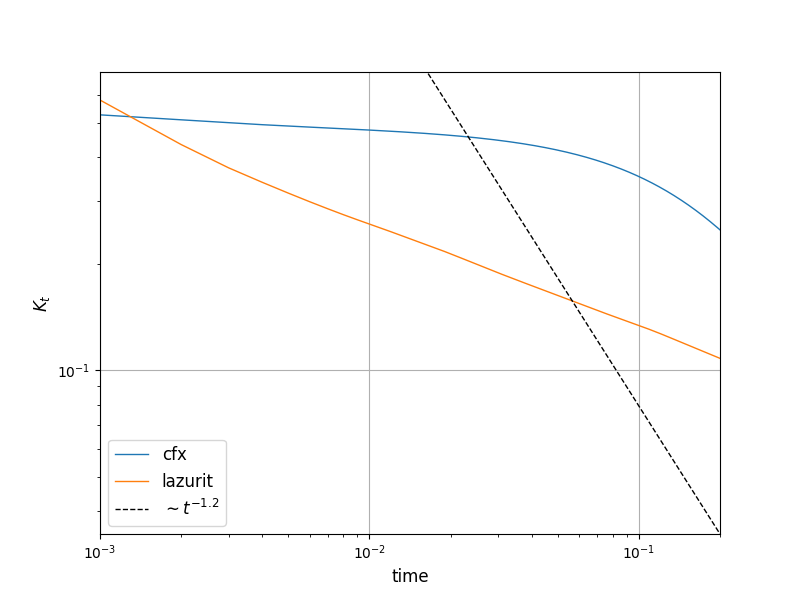
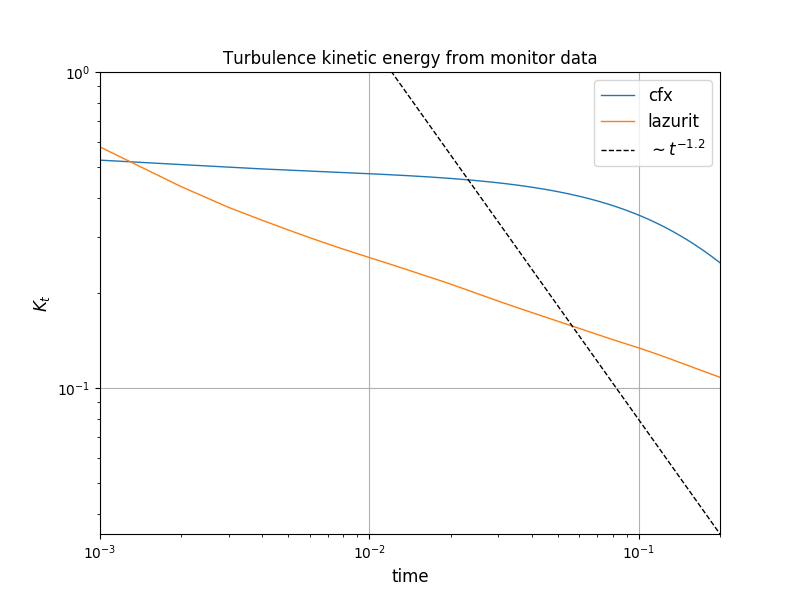
Add comparison of kinetic energy time dependencies, obtained from monitor data and spectrum data

diff --git a/diht_analysis/analyse_spectrum.py b/diht_analysis/analyse_spectrum.py
@@ -6,6 +6,9 @@ import numpy as np
 import pandas as pd
 import matplotlib.pyplot as plt
 import typing
+from diht_analysis.analyse_monitor_data import cfx_kinetic_energy as mon_cfx_energy_arr,\
+    lazurit_kinetic_energy as mon_lazurit_energy_arr, time_arr as mon_time_arr
+
 
 base_dir = os.path.dirname(os.path.dirname(__file__))
 
@@ -43,7 +46,25 @@ def plot_spectrum(i_cnt, j_cnt, k_cnt, frames: typing.List[pd.DataFrame], subplo
                                      config.grid_step, u_arr, v_arr, w_arr, 200)
         spectrum.compute_spectrum()
         plt.plot(spectrum.k_abs_arr, spectrum.energy_sum_arr, lw=0.5, label=r'$t = %s $' % round(sol_time, 3))
-    set_plot(title, legend=bool(sol_time_arr))
+    set_plot(title, legend=bool(list(sol_time_arr)))
+
+
+def get_kinetic_energy_arr(i_cnt, j_cnt, k_cnt, frames: typing.List[pd.DataFrame]):
+    kinetic_energy_arr = []
+    u_arr, v_arr, w_arr = read_velocity_file(os.path.join(base_dir, config.data_files_dir, 'velocity.VEL'))
+    spectrum = SpatialSpectrum3d(config.i_cnt, config.j_cnt, config.k_cnt,
+                                 config.grid_step, u_arr, v_arr, w_arr, 200)
+    spectrum.compute_spectrum()
+    kinetic_energy_arr.append(spectrum.get_turb_kinetic_energy())
+    for frame in frames:
+        u_arr = np.array(frame['U'])
+        v_arr = np.array(frame['V'])
+        w_arr = np.array(frame['W'])
+        spectrum = SpatialSpectrum3d(i_cnt, j_cnt, k_cnt,
+                                     config.grid_step, u_arr, v_arr, w_arr, 200)
+        spectrum.compute_spectrum()
+        kinetic_energy_arr.append(spectrum.get_turb_kinetic_energy())
+    return np.array(kinetic_energy_arr)
 
 
 def make_comparison_plot(cfx_frames: typing.List[pd.DataFrame], lazurit_frames: typing.List[pd.DataFrame],
@@ -58,7 +79,7 @@ def make_comparison_plot(cfx_frames: typing.List[pd.DataFrame], lazurit_frames: 
 def sort_frames(frames: typing.List[pd.DataFrame], sol_time_arr):
     fr = pd.DataFrame.from_dict({'frames': frames, 'sol_time': sol_time_arr})
     sort_fr = fr.sort_values(by='sol_time')
-    return list(sort_fr['frames']), list(sort_fr['sol_time'])
+    return list(sort_fr['frames']), np.array(list(sort_fr['sol_time']))
 
 if __name__ == '__main__':
     cfx_frames: typing.List[pd.DataFrame] = []
@@ -79,6 +100,46 @@ if __name__ == '__main__':
         lazurit_frames.append(frame)
 
     cfx_frames, cfx_sol_time_arr = sort_frames(cfx_frames, cfx_sol_time_arr)
-    lazurit_frames, lazurit_sol_time_arr =sort_frames(lazurit_frames, lazurit_sol_time_arr)
+    lazurit_frames, lazurit_sol_time_arr = sort_frames(lazurit_frames, lazurit_sol_time_arr)
 
     make_comparison_plot(cfx_frames, lazurit_frames, cfx_sol_time_arr)
+
+    cfx_energy_arr = get_kinetic_energy_arr(config.i_cnt, config.j_cnt, config.k_cnt, cfx_frames)
+    lazurit_energy_arr = get_kinetic_energy_arr(config.i_cnt + 1, config.j_cnt + 1, config.k_cnt + 1, lazurit_frames)
+
+    cfx_sol_time_arr = np.array([0] + list(cfx_sol_time_arr))
+    lazurit_sol_time_arr = np.array([0] + list(lazurit_sol_time_arr))
+    plt.figure(figsize=(8, 6))
+    plt.plot(cfx_sol_time_arr, cfx_energy_arr, lw=1, label='cfx')
+    plt.plot(lazurit_sol_time_arr, lazurit_energy_arr, lw=1, label='lazurit')
+    plt.plot(cfx_sol_time_arr, 0.005 / cfx_sol_time_arr ** 1.2, lw=1, color='black', linestyle='--',
+             label=r'$\sim t^{-1.2}$')
+    plt.legend(fontsize=12)
+    plt.title('Turbulence kinetic energy from spectrum')
+    plt.xscale('log')
+    plt.yscale('log')
+    plt.xlabel('time', fontsize=12)
+    plt.ylabel(r'$K_t$', fontsize=12)
+    plt.grid()
+    plt.ylim(0, 1)
+    plt.xlim(cfx_sol_time_arr[0], cfx_sol_time_arr[len(cfx_sol_time_arr) - 1])
+    plt.savefig(os.path.join(base_dir, config.spectrum_plots_dir, 'kinetic_energy.png'))
+
+    plt.figure(figsize=(8, 6))
+    plt.plot(cfx_sol_time_arr, cfx_energy_arr, lw=1, label='cfx, from spectrum', linestyle='-', color='red')
+    plt.plot(lazurit_sol_time_arr, lazurit_energy_arr, lw=1, label='lazurit, from spectrum', linestyle='-',
+             color='blue')
+    plt.plot(mon_time_arr, mon_cfx_energy_arr, lw=1, label='cfx, from monitor', linestyle=':', color='red')
+    plt.plot(mon_time_arr, mon_lazurit_energy_arr, lw=1, label='lazurit, from monitor', linestyle=':', color='blue')
+    plt.plot(cfx_sol_time_arr, 0.005 / cfx_sol_time_arr ** 1.2, lw=1, color='black', linestyle='--',
+             label=r'$\sim t^{-1.2}$')
+    plt.legend(fontsize=12)
+    # plt.xscale('log')
+    # plt.yscale('log')
+    plt.xlabel('time', fontsize=12)
+    plt.ylabel(r'$K_t$', fontsize=12)
+    plt.grid()
+    plt.ylim(0, 1)
+    plt.xlim(cfx_sol_time_arr[0], cfx_sol_time_arr[len(cfx_sol_time_arr) - 1])
+    plt.savefig(os.path.join(base_dir, config.spectrum_plots_dir, 'kinetic_energy_monitor_spectrum_comparison.png'))
+    plt.show()

diff --git a/diht_analysis/analyse_monitor_data.py b/diht_analysis/analyse_monitor_data.py
@@ -29,20 +29,20 @@ def get_kinetic_energy(u_arr: np.ndarray, v_arr: np.ndarray, w_arr: np.ndarray):
 
 base_dir = os.path.dirname(os.path.dirname(__file__))
 
-if __name__ == '__main__':
-    cfx_data = read_cfx_monitor_data(os.path.join(config.monitor_data_dir, 'cfx.csv'))
-    lazurit_data = np.fromfile(os.path.join(config.monitor_data_dir,
+cfx_data = read_cfx_monitor_data(os.path.join(config.monitor_data_dir, 'cfx.csv'))
+lazurit_data = np.fromfile(os.path.join(config.monitor_data_dir,
                                             'lazurit.dat'), sep=' ').reshape([config.max_time_step + 1, 7])
-    time_arr = config.time_step * np.linspace(1, config.max_time_step, config.max_time_step)
-    cfx_u_arr = cfx_data[:, 1]
-    cfx_v_arr = cfx_data[:, 2]
-    cfx_w_arr = cfx_data[:, 3]
-    cfx_kinetic_energy = get_kinetic_energy(cfx_u_arr, cfx_v_arr, cfx_w_arr)
-    lazurit_u_arr = lazurit_data[0: config.max_time_step, 2]
-    lazurit_v_arr = lazurit_data[0: config.max_time_step, 3]
-    lazurit_w_arr = lazurit_data[0: config.max_time_step, 4]
-    lazurit_kinetic_energy = get_kinetic_energy(lazurit_u_arr, lazurit_v_arr, lazurit_w_arr)
+time_arr = config.time_step * np.linspace(1, config.max_time_step, config.max_time_step)
+cfx_u_arr = cfx_data[:, 1]
+cfx_v_arr = cfx_data[:, 2]
+cfx_w_arr = cfx_data[:, 3]
+cfx_kinetic_energy = get_kinetic_energy(cfx_u_arr, cfx_v_arr, cfx_w_arr)
+lazurit_u_arr = lazurit_data[0: config.max_time_step, 2]
+lazurit_v_arr = lazurit_data[0: config.max_time_step, 3]
+lazurit_w_arr = lazurit_data[0: config.max_time_step, 4]
+lazurit_kinetic_energy = get_kinetic_energy(lazurit_u_arr, lazurit_v_arr, lazurit_w_arr)
 
+if __name__ == '__main__':
     plt.figure(figsize=(8, 6))
     plt.plot(time_arr, cfx_u_arr, lw=1, label='cfx')
     plt.plot(time_arr, lazurit_u_arr, lw=1, label='lazurit')
@@ -77,13 +77,14 @@ if __name__ == '__main__':
     plt.plot(time_arr, cfx_kinetic_energy, lw=1, label='cfx')
     plt.plot(time_arr, lazurit_kinetic_energy, lw=1, label='lazurit')
     plt.plot(time_arr, 0.005 / time_arr ** 1.2, lw=1, color='black', linestyle='--', label=r'$\sim t^{-1.2}$')
+    plt.title('Turbulence kinetic energy from monitor data')
     plt.legend(fontsize=12)
     plt.xscale('log')
     plt.yscale('log')
     plt.xlabel('time', fontsize=12)
     plt.ylabel(r'$K_t$', fontsize=12)
     plt.grid()
-    plt.ylim(0, max(max(cfx_kinetic_energy), max(lazurit_kinetic_energy)) * 1.2)
+    plt.ylim(0, 1)
     plt.xlim(time_arr[0], time_arr[len(time_arr) - 1])
     plt.savefig(os.path.join(base_dir, config.monitor_plots_dir, 'kinetic_energy.png'))
     plt.show()

diff --git a/spectrum/spectrum_lib.py b/spectrum/spectrum_lib.py
@@ -5,6 +5,8 @@ from scipy.fftpack import fftn
 import config
 from core.lib import get_k_arr, get_tau, get_von_karman_spectrum, get_amplitude_arr, get_d_vector_theta_and_phase, \
     get_frequency, get_sigma_vector
+from scipy.interpolate import interp1d
+from scipy.integrate import quad
 
 logging.basicConfig(format='%(levelname)s: %(message)s', level=config.log_level)
 
@@ -71,6 +73,9 @@ class SpatialSpectrum3d:
         # ki_arr = np.linspace(ki_min, k_max, i_cnt)
         # kj_arr = np.linspace(kj_min, k_max, j_cnt)
         # kk_arr = np.linspace(kk_min, k_max, k_cnt)
+        # ki_arr = np.linspace(ki_min, k_max, i_cnt)
+        # kj_arr = np.linspace(kj_min, k_max, j_cnt)
+        # kk_arr = np.linspace(kk_min, k_max, k_cnt)
         ki_min = 1 / x_size
         kj_min = 1 / y_size
         kk_min = 1 / z_size
@@ -120,6 +125,11 @@ class SpatialSpectrum3d:
         self.energy_v_arr = self._get_spectrum(ki_arr, kj_arr, kk_arr, v_arr_3d, self.num_point)[0]
         self.energy_w_arr = self._get_spectrum(ki_arr, kj_arr, kk_arr, w_arr_3d, self.num_point)[0]
         self.energy_sum_arr = self.energy_u_arr + self.energy_v_arr + self.energy_w_arr
+
+    def get_turb_kinetic_energy(self):
+        energy_interp = interp1d(self.k_abs_arr, self.energy_sum_arr)
+        result = quad(lambda k: energy_interp(k), min(self.k_abs_arr), max(self.k_abs_arr))[0]
+        return result
 
 
 def plot_spectrum_with_predefined(k_arr, energy_arr, filename, l_cut, l_e, l_cut_min, l_e_max,

diff --git a/spectrum/plot_spectrum.py b/spectrum/plot_spectrum.py
@@ -14,3 +14,4 @@ if __name__ == '__main__':
                                                os.path.join(base_dir, config.spectrum_plots_dir,
                                                             'spatial_spectrum_3d.png'),
                                                2 * config.grid_step, config.l_e, 2 * config.grid_step, config.l_e)
+    print(spatial_spectrum_3d.get_turb_kinetic_energy())
